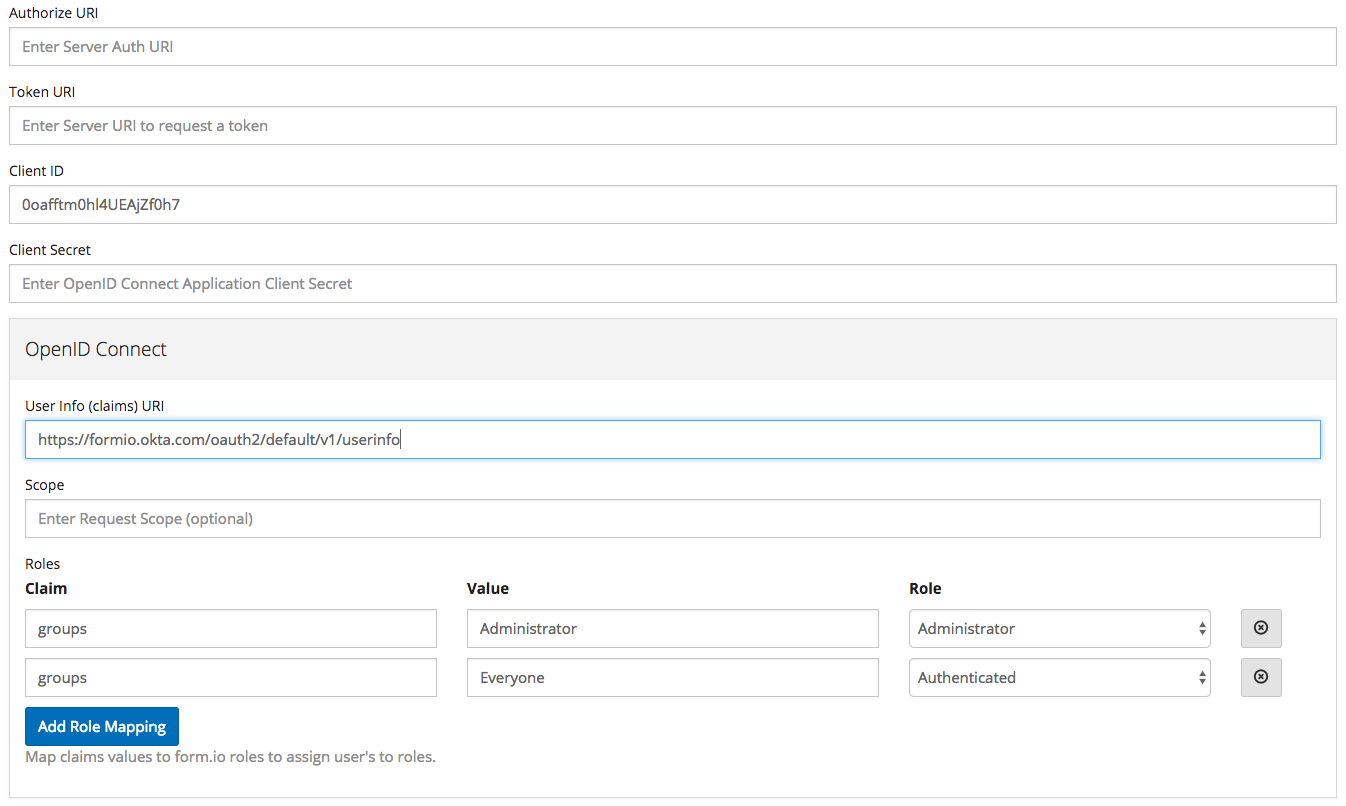
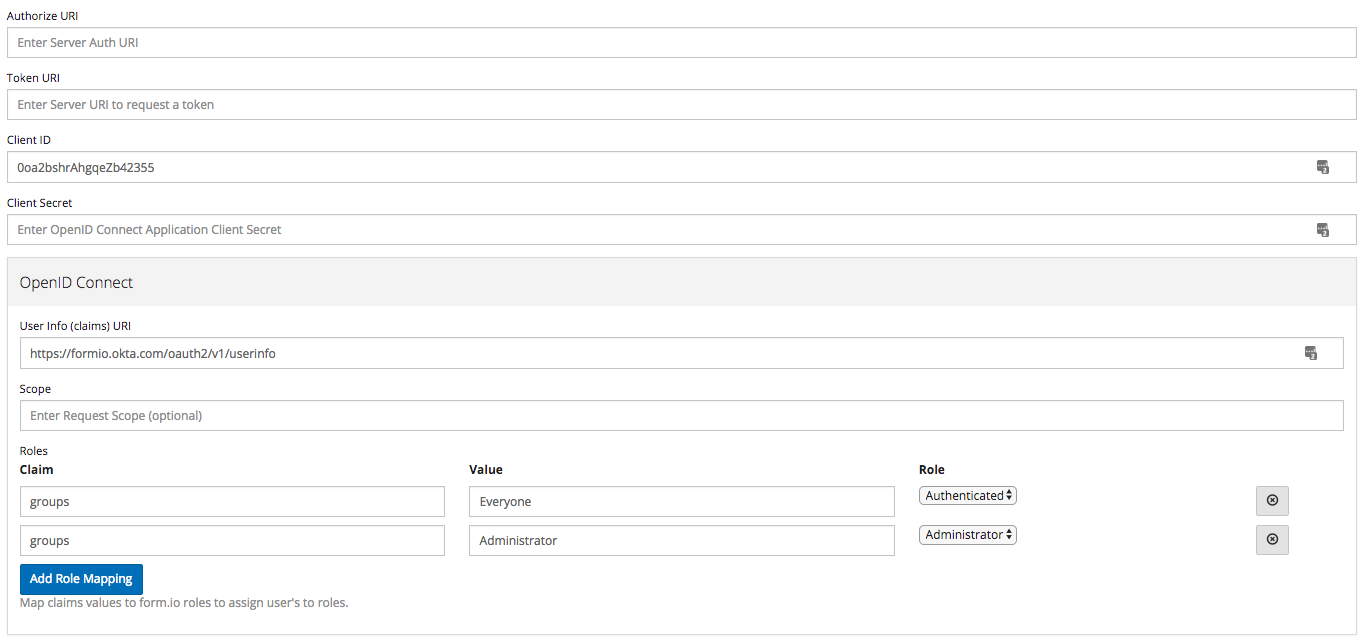
Changing the configuration settings for okta.

diff --git a/_paragraphs/integrations/okta/okta-project.md b/_paragraphs/integrations/okta/okta-project.md
@@ -16,7 +16,7 @@ You only need to fill out the following fields to get the SSO working.
 | Setting | Description | Example |
 |---------|---------|
 | Client ID | Client ID provided by Okta within your App Settings | 023ds0d2dslkef3sa0b9 |
-| User Info (claims) URI | The Url to fetch the user information from Okta | https://{{ ORGANIZATION_NAME }}.okta.com/oauth2/default/v1/userinfo |
+| User Info (claims) URI | The Url to fetch the user information from Okta | https://{{ ORGANIZATION_NAME }}.okta.com/oauth2/v1/userinfo |
 | Roles (Claim) | This is where you will provide your role mappings based on the Okta Group ID's created within the previous section. | Please see the image below for an example. |
 
 When you are done filling out this information, this should look like the following.
